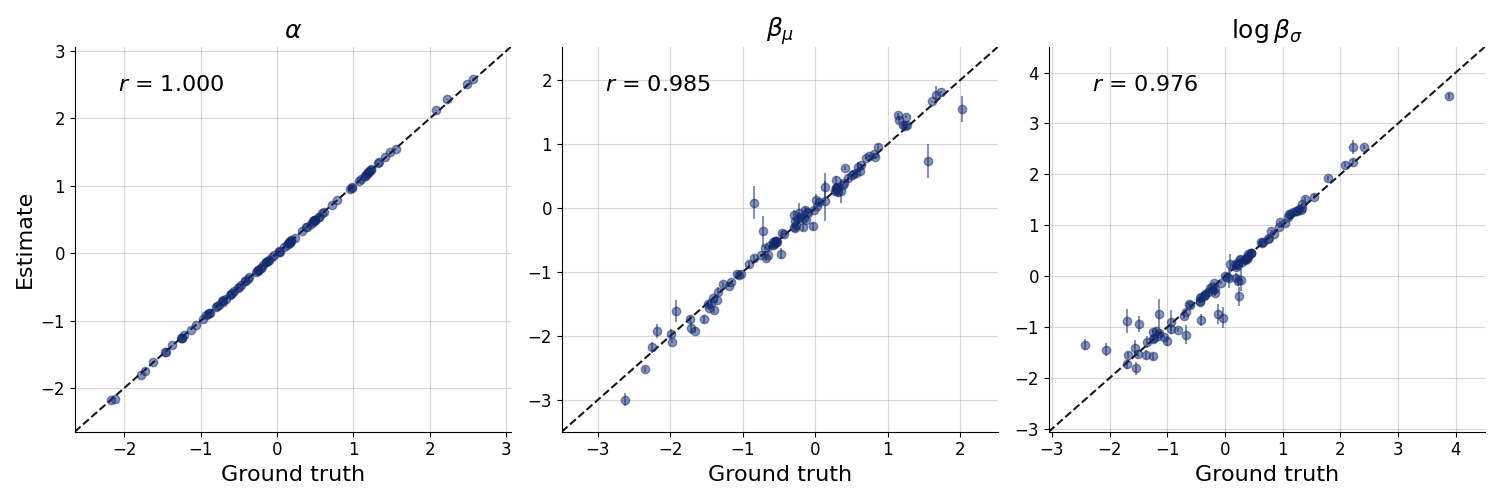
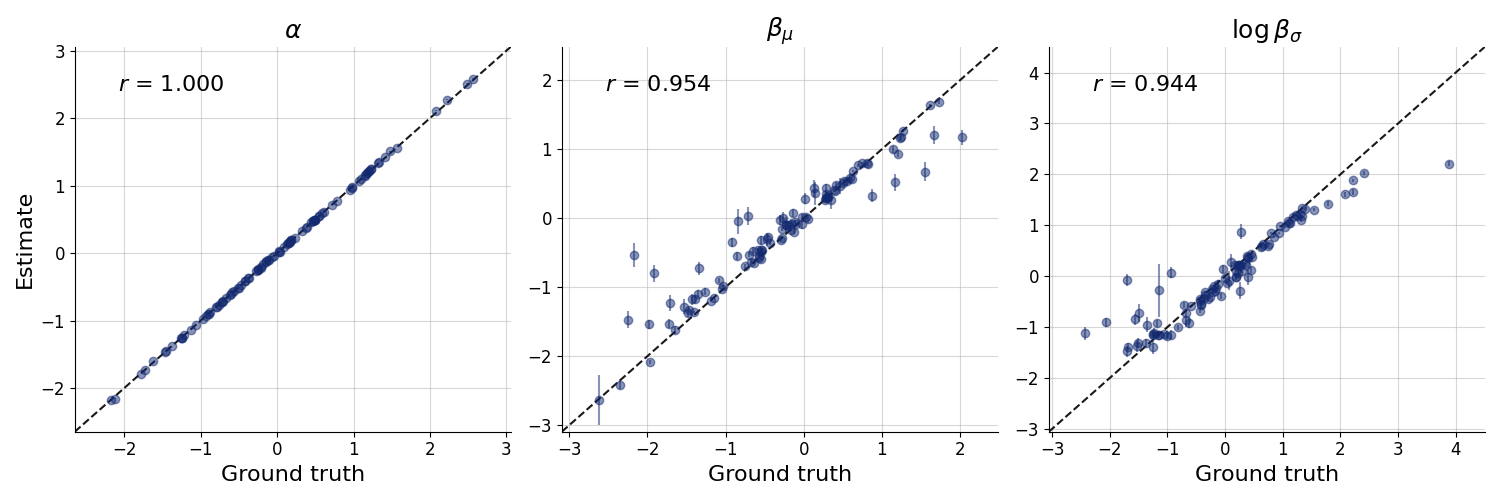
fli

diff --git a/fli score matching.py b/fli score matching.py
@@ -34,10 +34,10 @@ current_sde = SDE(
 )
 
 dataset = FLIProblem(
-    n_data=10000,
+    n_data=20000,
     prior=prior,
     sde=current_sde,
-    online_learning=True,
+    online_learning=False,
     number_of_obs=number_of_obs,
 )
 
